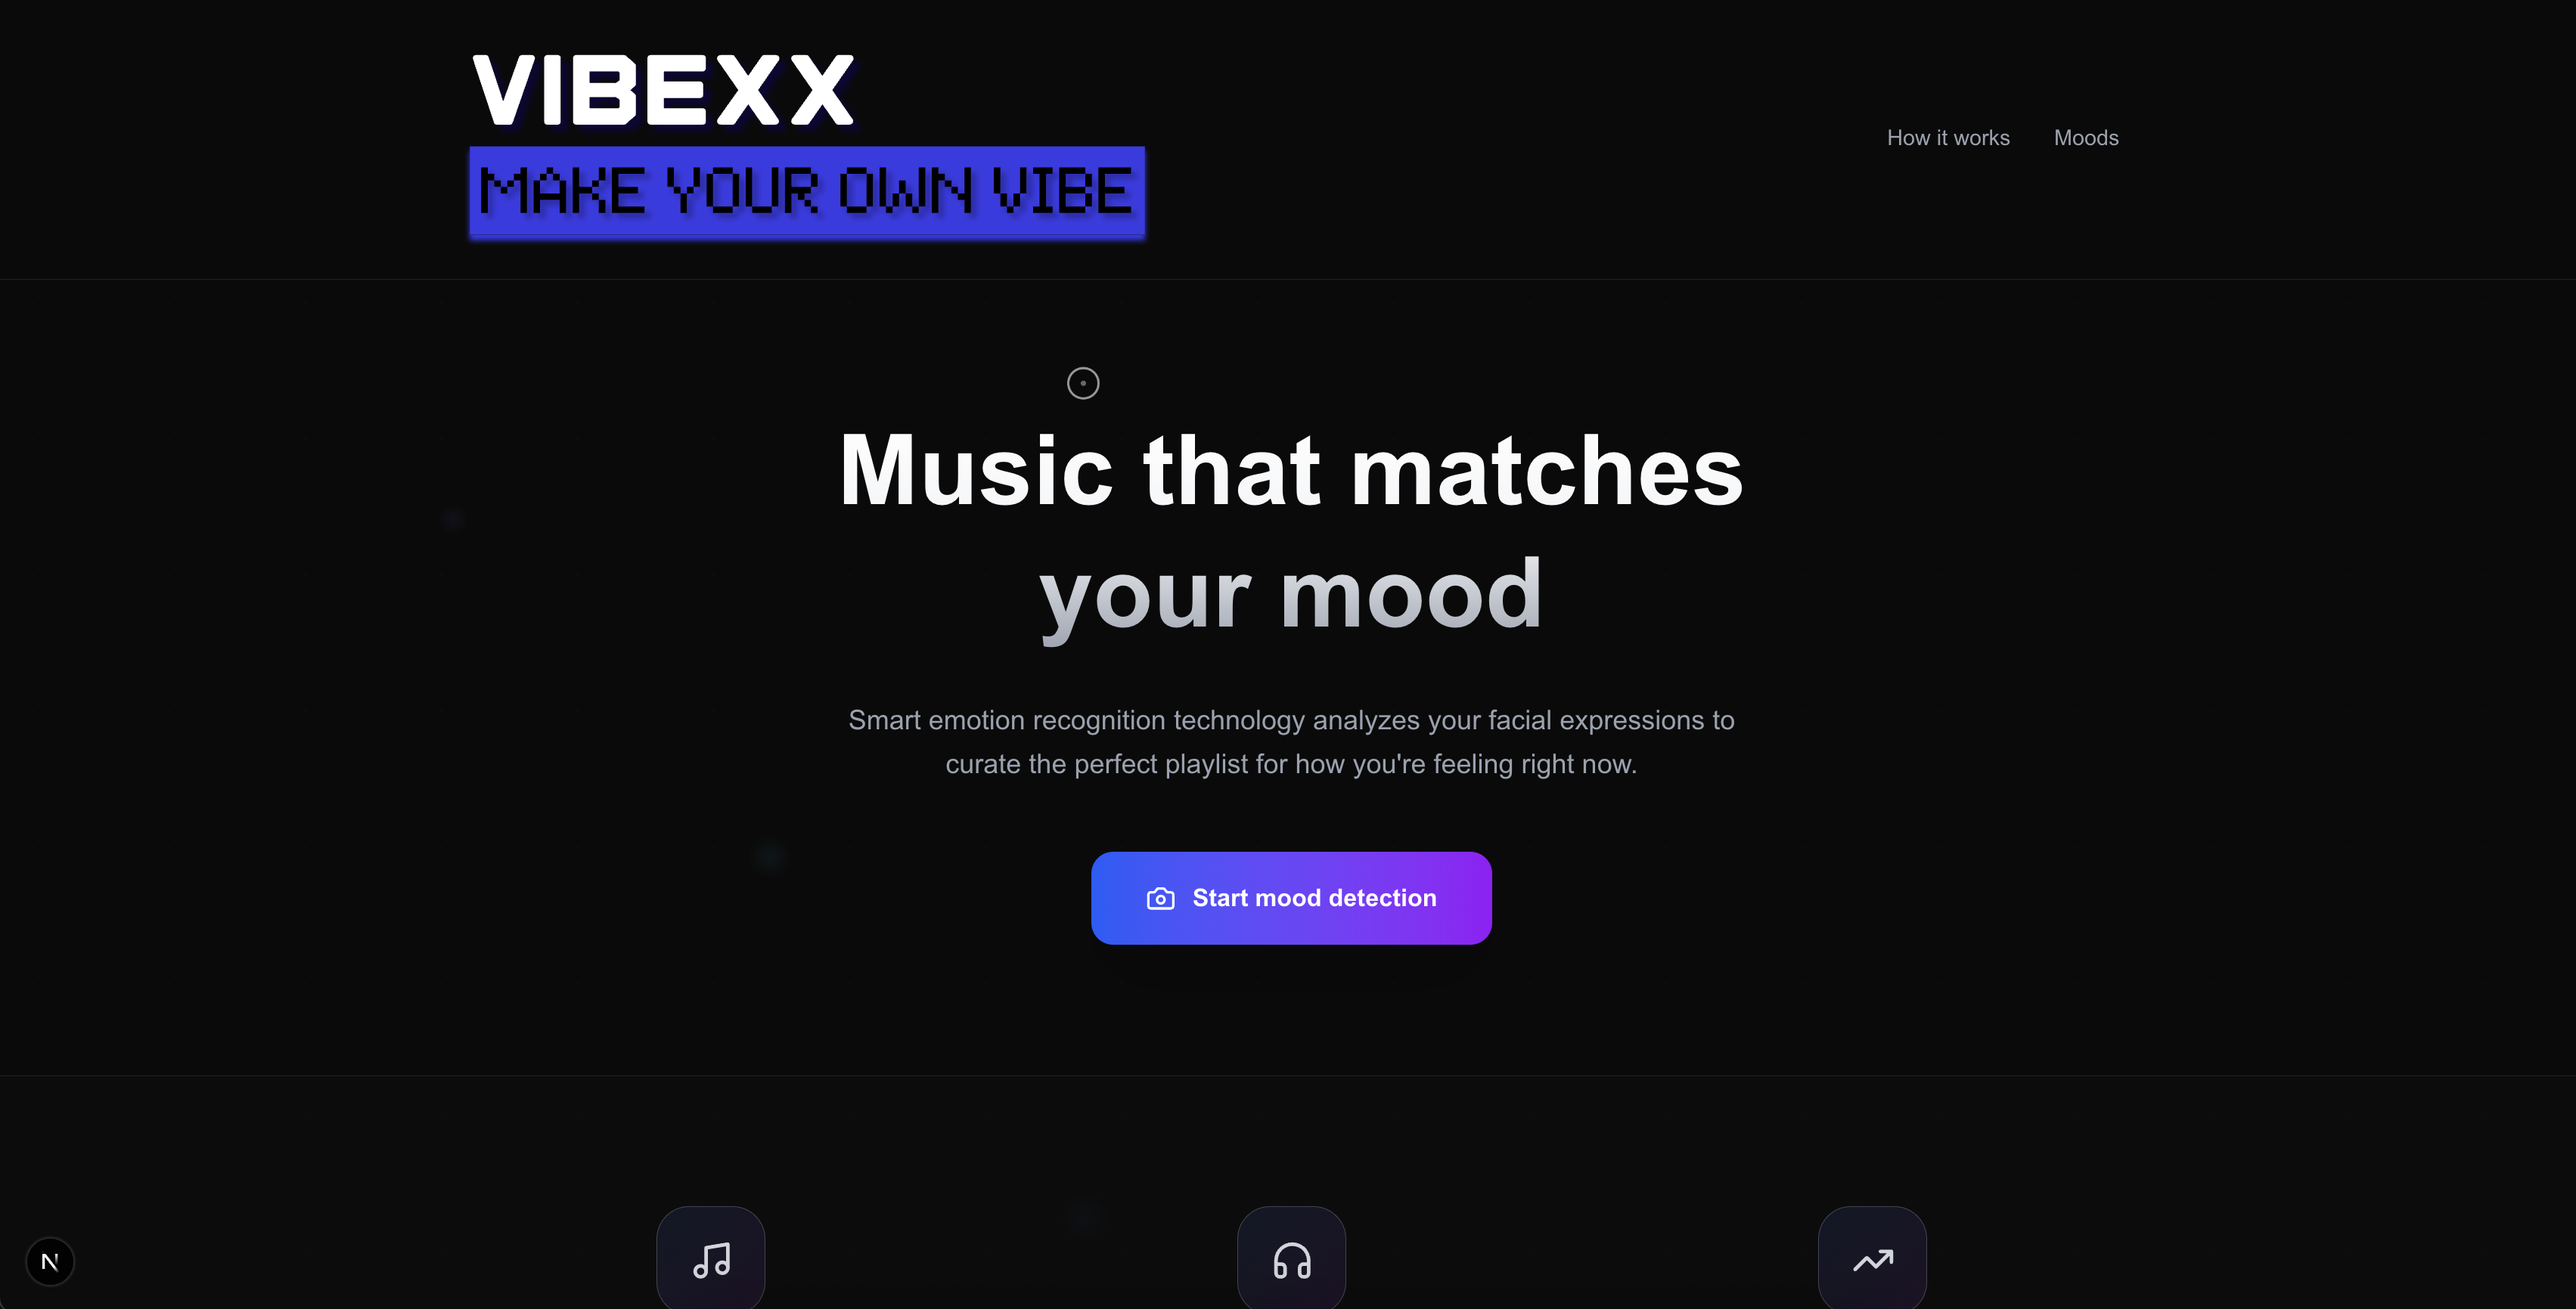
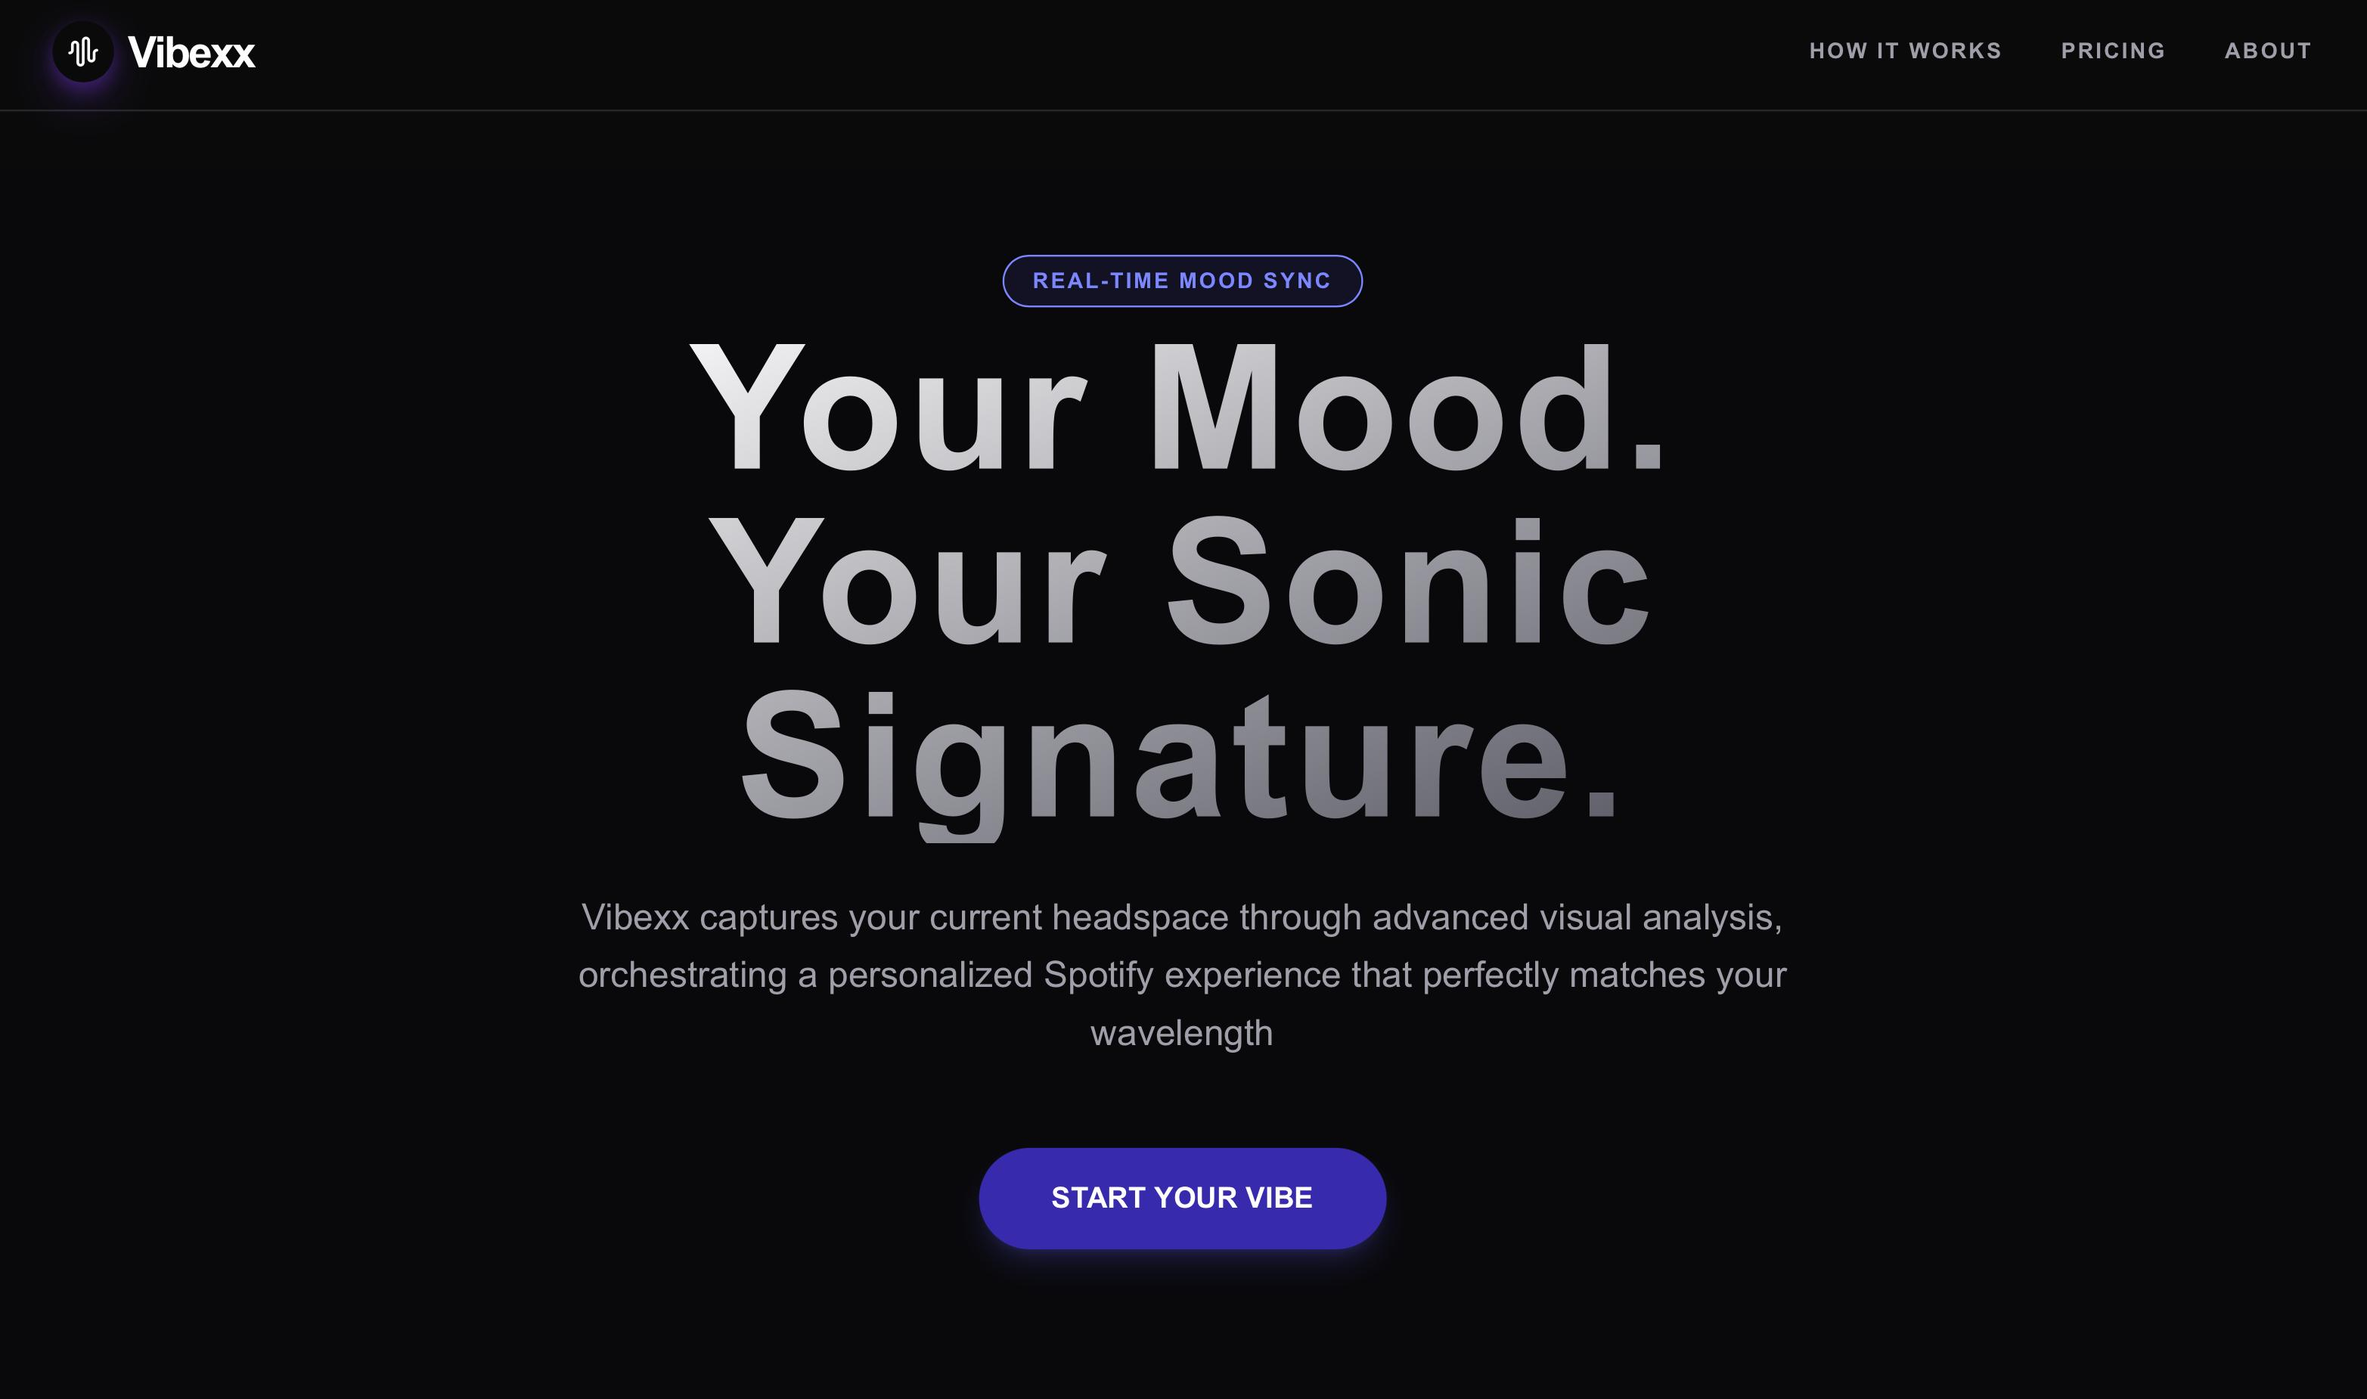
vibexx img change + did some changes on about me page

diff --git a/src/pages/Aboutme.jsx b/src/pages/Aboutme.jsx
@@ -8,9 +8,9 @@ import kendrick from "../assets/frames/kendrick.png";
 import blonde from "../assets/frames/blonde.png";
 import starboy from "../assets/frames/starboy.png";
 import NowPlayingWidget from "../components/NowPlayingWidget";
+import CatIdle from "../components/CatIdle";
 
 const AboutMe = () => {
-
   return (
     <section
       id="about"
@@ -21,10 +21,8 @@ const AboutMe = () => {
 
       {/* Container */}
       <div className="w-full max-w-7xl flex flex-col md:flex-row items-start justify-between gap-12 relative z-10">
-
         {/* LEFT — Frames + Character */}
         <div className="w-full md:w-1/2 flex flex-col items-center md:items-start">
-
           {/* Frames */}
           <div className="flex gap-6 md:mb-12">
             {[kendrick, blonde, starboy].map((img, i) => (
@@ -44,17 +42,24 @@ const AboutMe = () => {
             ))}
           </div>
 
-          {/* PS5 Gaming Character */}
+          {/* PS5 + Cat SIDE BY SIDE (no overlap) */}
           <div className="w-full flex justify-center mt-8">
-            <div className="scale-[2.5] md:scale-[3.5] lg:scale-[4]">
-              <PS5 />
+            <div className="flex items-end gap-10">
+              {/* PS5 Character */}
+              <div className="scale-[2.5] md:scale-[3.5] lg:scale-[4]">
+                <PS5 />
+              </div>
+
+              {/* Cat chilling on side */}
+                <div className="absolute  translate-y-28 left-24 scale-[1] md:scale-[1.4] opacity-95">
+      <CatIdle />
+    </div>
             </div>
           </div>
         </div>
 
         {/* RIGHT — Text + Contact */}
         <div className="w-full md:w-1/2 flex flex-col justify-center">
-
           {/* Heading */}
           <div className="flex items-center gap-4 mt-4">
             <h1 className="font-arcade text-4xl md:text-5xl leading-none">
@@ -68,8 +73,8 @@ const AboutMe = () => {
             I build applications using React, React Native, Firebase, JavaScript,
             and backend tools like Node & Flask.
             <br />
-            I like taking ideas from scratch and turning them into clean,
-            usable products through consistent iteration.
+            I like taking ideas from scratch and turning them into clean, usable
+            products through consistent iteration.
           </p>
 
           {/* Contact Icons */}
@@ -117,12 +122,10 @@ const AboutMe = () => {
 
           {/* Now Playing Vinyl */}
           <div className="mt-6 flex justify-center opacity-90">
-  <div className="scale-75 origin-center">
-      <NowPlayingWidget />
-  </div>
-</div>
-
-
+            <div className="scale-75 origin-center">
+              <NowPlayingWidget />
+            </div>
+          </div>
         </div>
       </div>
     </section>
